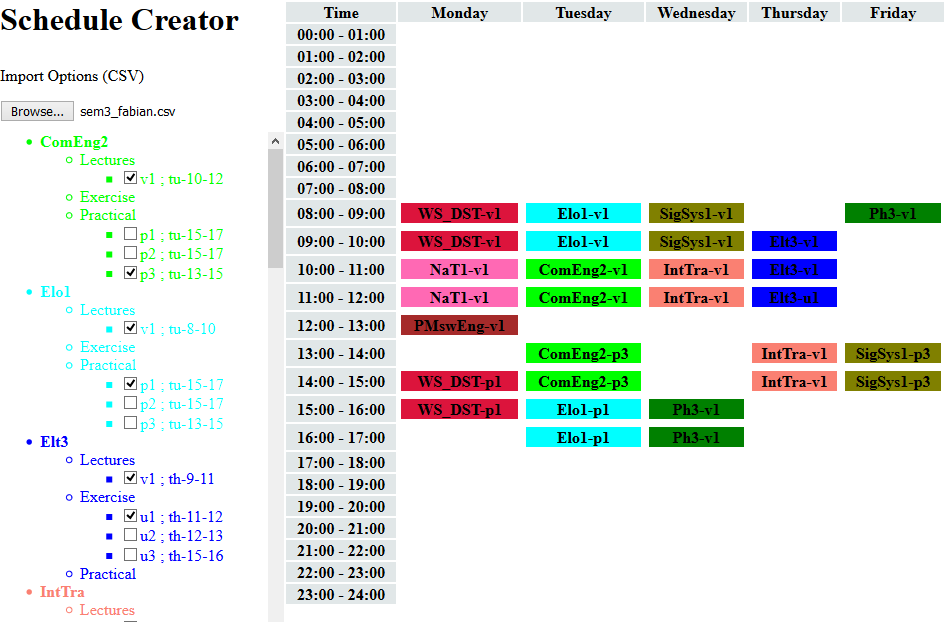
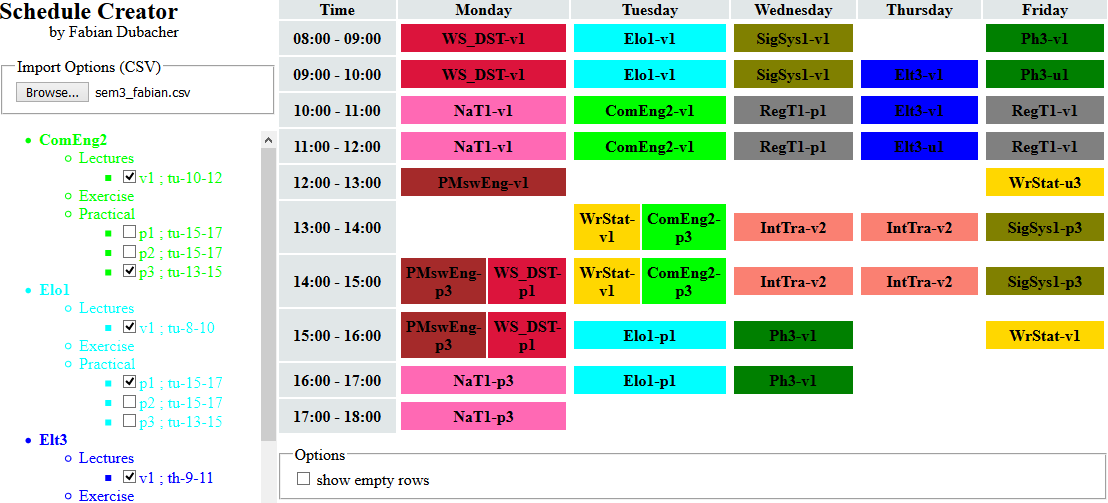
bug fix, cosmetics

diff --git a/style/schedule-creator.css b/style/schedule-creator.css
@@ -6,7 +6,7 @@
 #author
 {
 	position: absolute;
-	top: 35px;
+	top: 25px;
 	left: 50px;
 }
 
@@ -14,15 +14,9 @@
 {
 	position: absolute;
 	left: 0;
-	right: 70%;
-	top: 70px;
+	right: 75%;
+	top: 60px;
 	bottom: 0;
-}
-
-#import-csv
-{
-	position: relative;
-	height: 40px;
 }
 
 #module-list
@@ -36,10 +30,15 @@
 #schedule-wrapper
 {
 	position: absolute;
-	left: 30%;
+	left: 25%;
 	right: 0;
 	top: 0;
 	bottom: 0;
+}
+
+#schedule th, td
+{
+	width: 16.6%;
 }
 
 #schedule-options
@@ -53,7 +52,7 @@ body
 	width: 100%;
 	padding: 0;
 	margin: 0;
-	overflow: hidden;
+	overflow: auto;
 }
 
 table

diff --git a/schedule-creator.html b/schedule-creator.html
@@ -13,11 +13,11 @@
 </head>
 
 <body>
-	<h1>Schedule Creator</h1>
+	<h2>Schedule Creator</h2>
 	<span id="author">by Fabian Dubacher</span>
 	
 	<div id="module-selection-wrapper">
-		<fieldset id="import-csv">
+		<fieldset>
 			<legend>Import Options (CSV)</legend>
 			<input id="file-select" type="file" accept=".csv"></input>
 		</fieldset>
